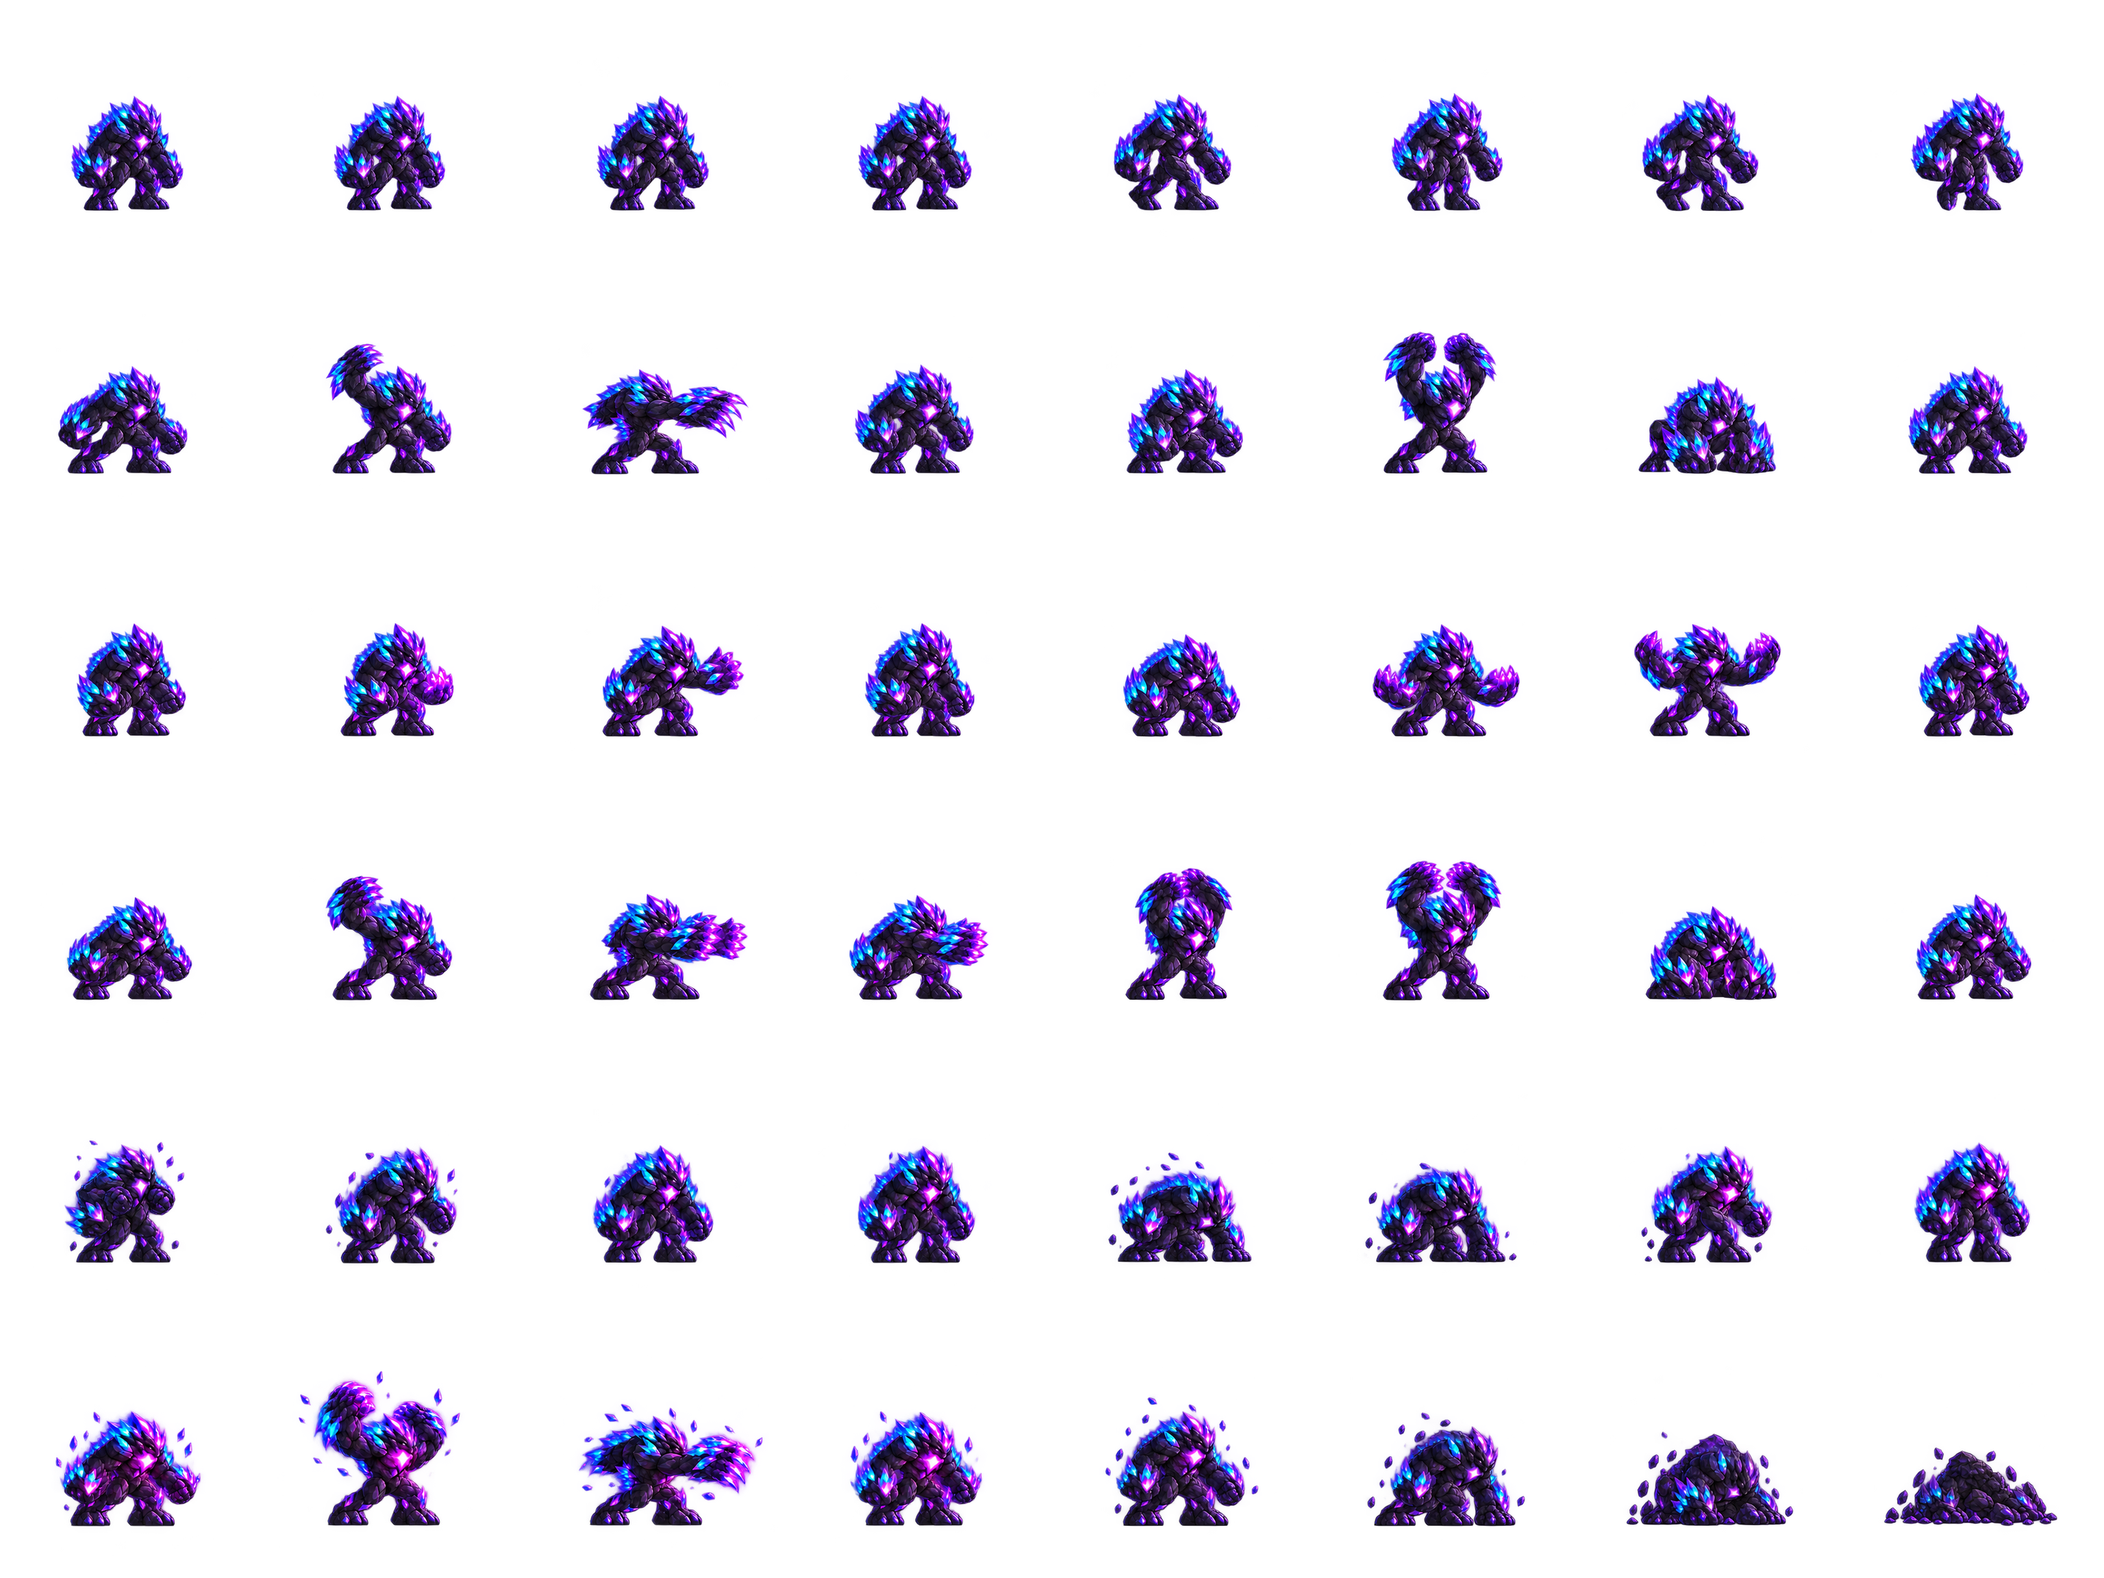
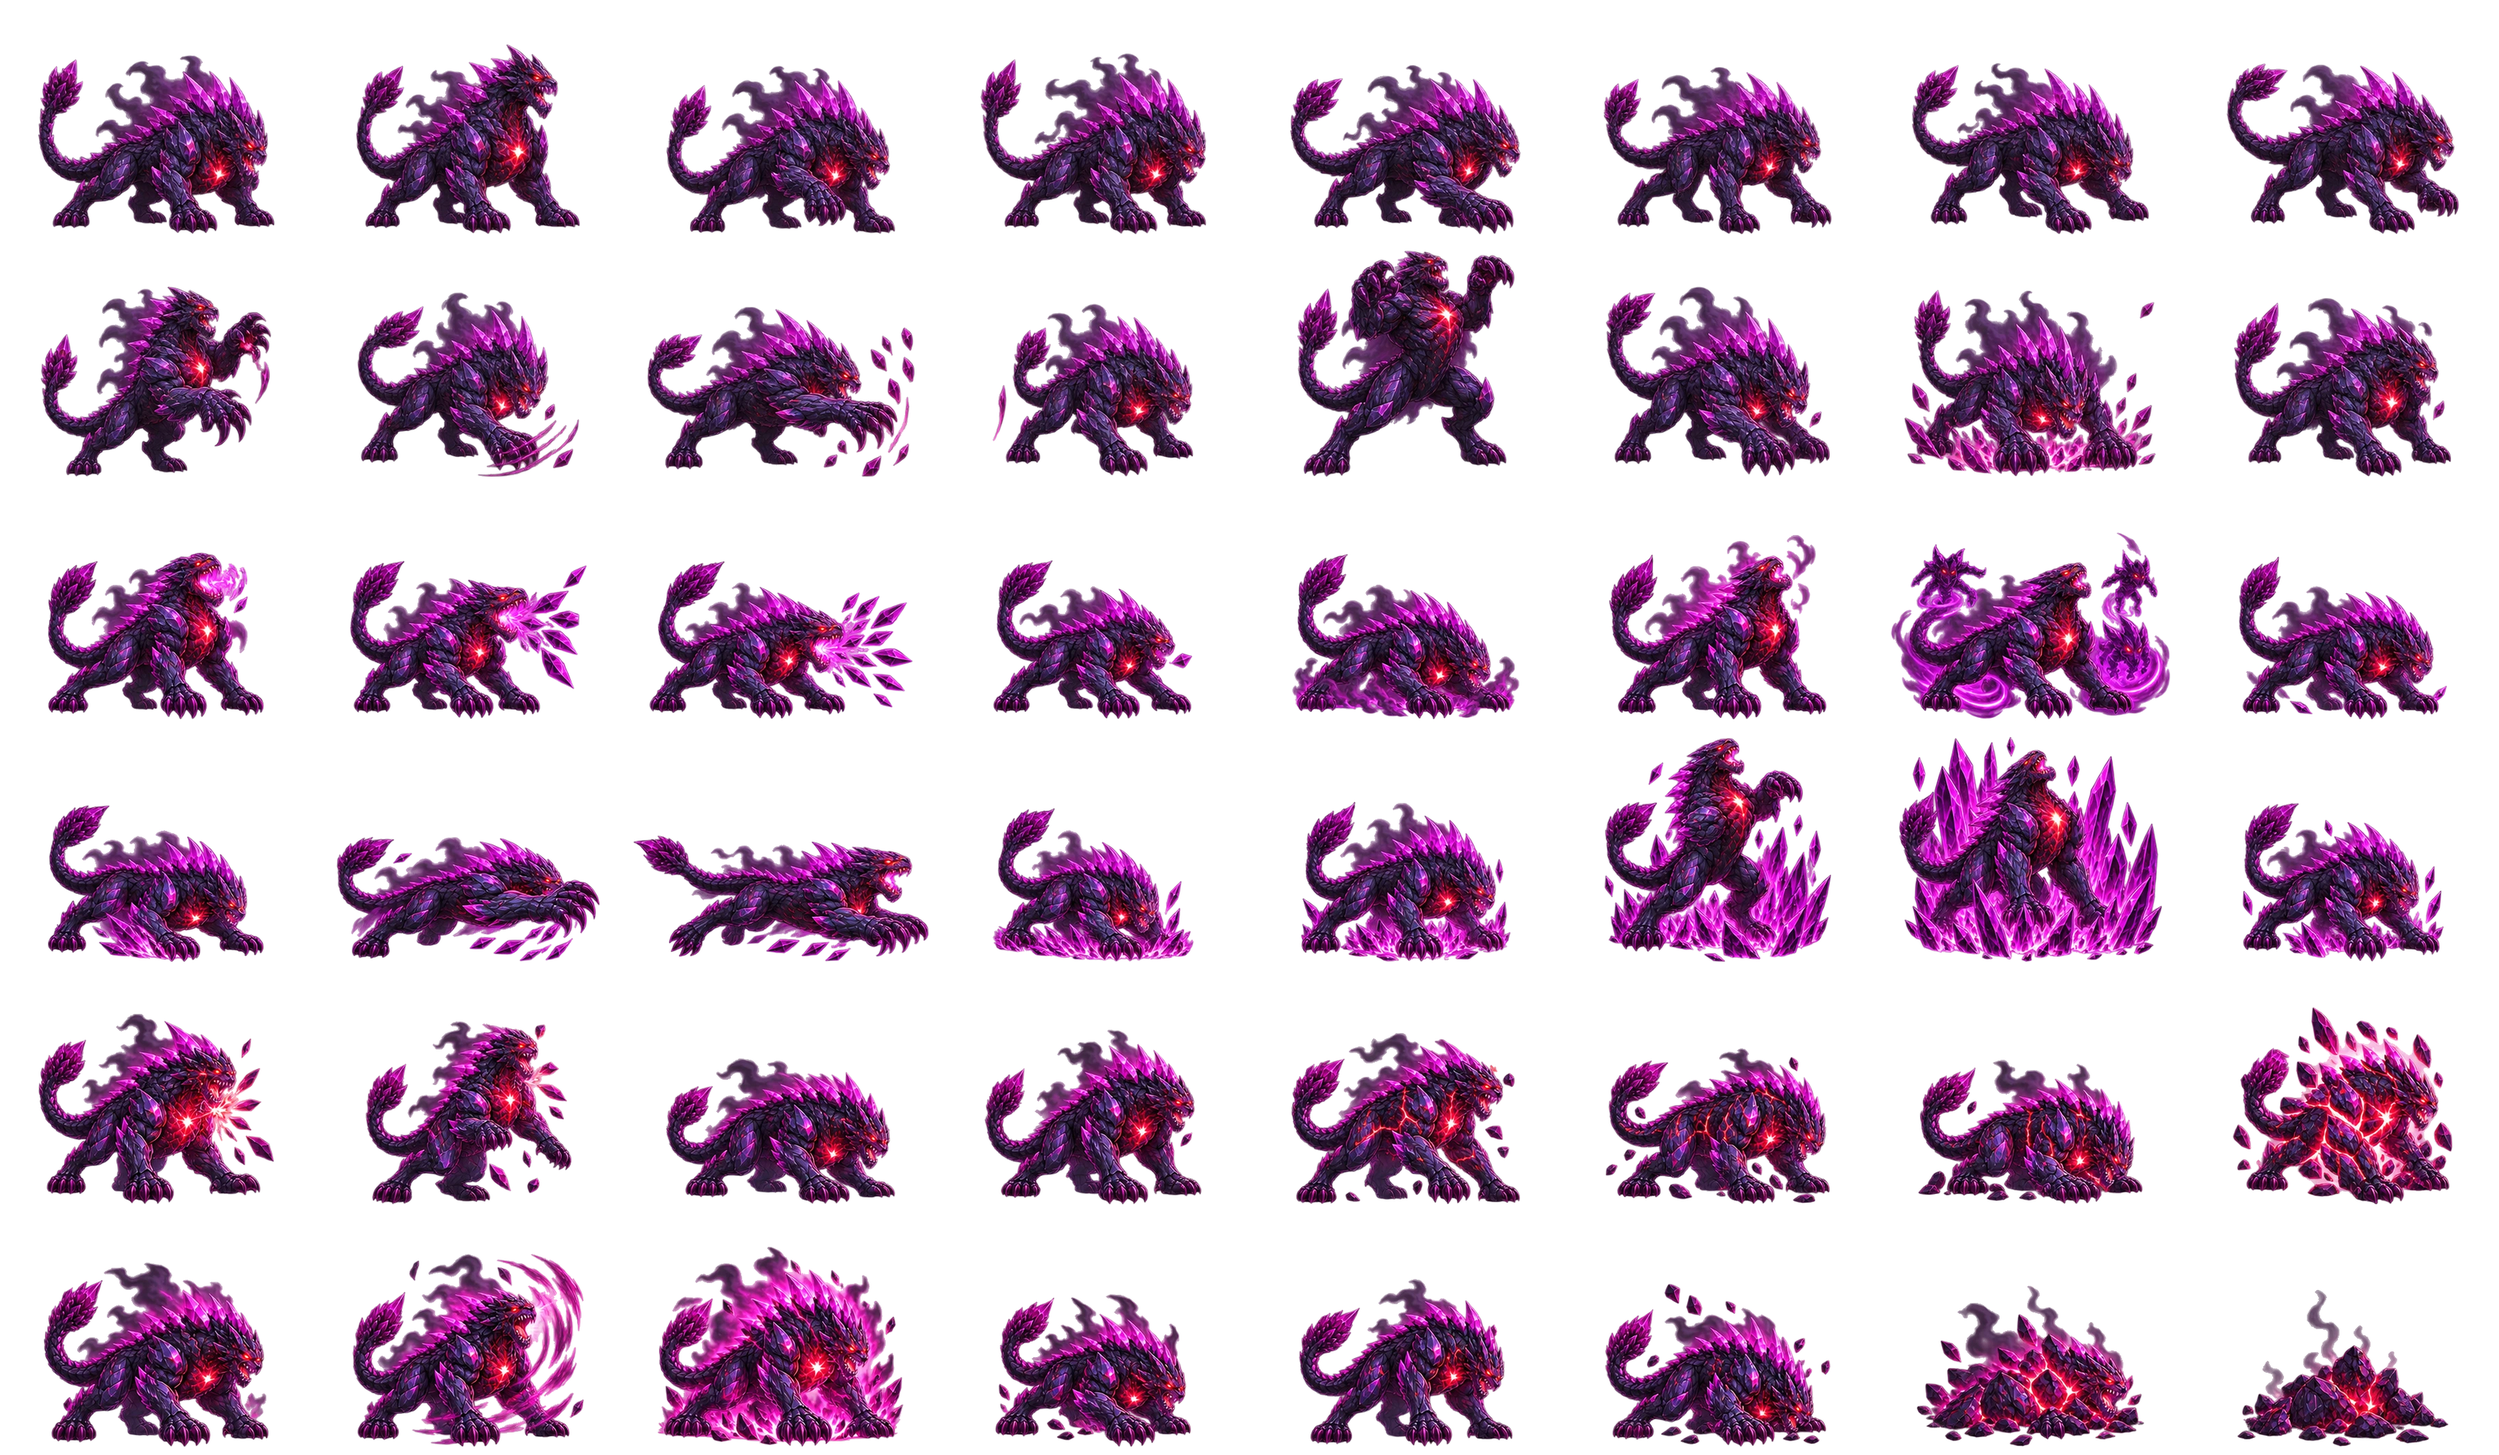
Crystal Beast + Broken Brute sheets in video family (48+32 poses, ownership-extracted); brute gen aliases repointed

diff --git a/src/assets/sprites.gen.ts b/src/assets/sprites.gen.ts
@@ -2651,188 +2651,201 @@ export const SPRITES = {
   },
   "crystalveil": {
     "file": "assets/runtime/crystalveil.webp",
-    "frameWidth": 384,
-    "frameHeight": 384,
+    "frameWidth": 456,
+    "frameHeight": 354,
     "originX": 0.5,
     "originY": 0.7994791666666666,
-    "bodyHeight": 307,
     "anims": {
       "idle": {
         "start": 0,
         "end": 3,
-        "fps": 6,
+        "frameRate": 9,
         "repeat": -1,
-        "h": 168
+        "h": 263
       },
       "walk": {
         "start": 4,
         "end": 7,
-        "fps": 8,
+        "frameRate": 9,
         "repeat": -1,
-        "h": 171
+        "h": 248
       },
       "claw": {
         "start": 8,
         "end": 11,
-        "fps": 8,
+        "frameRate": 9,
         "repeat": 0,
-        "h": 159
+        "h": 261
       },
       "slam": {
         "start": 12,
         "end": 15,
-        "fps": 8,
+        "frameRate": 9,
         "repeat": 0,
-        "h": 155
+        "h": 276
       },
       "shoot": {
         "start": 16,
         "end": 19,
-        "fps": 8,
+        "frameRate": 9,
         "repeat": 0,
-        "h": 165
+        "h": 232
       },
       "summon": {
         "start": 20,
         "end": 23,
-        "fps": 8,
+        "frameRate": 9,
         "repeat": 0,
-        "h": 164
+        "h": 255
       },
       "charge": {
         "start": 24,
         "end": 27,
-        "fps": 8,
+        "frameRate": 9,
         "repeat": 0,
-        "h": 154
+        "h": 204
       },
       "erupt": {
         "start": 28,
         "end": 31,
-        "fps": 8,
+        "frameRate": 9,
         "repeat": 0,
-        "h": 173
+        "h": 280
       },
       "hurt": {
         "start": 32,
         "end": 35,
-        "fps": 12,
+        "frameRate": 9,
         "repeat": 0,
-        "h": 171
+        "h": 261
       },
       "stagger": {
         "start": 36,
         "end": 39,
-        "fps": 6,
+        "frameRate": 9,
         "repeat": 0,
-        "h": 165
+        "h": 239
       },
       "enrage": {
         "start": 40,
         "end": 43,
-        "fps": 8,
-        "repeat": -1,
-        "h": 173
+        "frameRate": 9,
+        "repeat": 0,
+        "h": 276
       },
       "dead": {
         "start": 44,
         "end": 47,
-        "fps": 5,
+        "frameRate": 9,
         "repeat": 0,
-        "h": 152
+        "h": 236
+      },
+      "attack": {
+        "start": 8,
+        "end": 11,
+        "frameRate": 10,
+        "repeat": 0,
+        "h": 261
       }
     }
   },
   "veil_form2": {
     "file": "assets/runtime/veil_form2.webp",
-    "frameWidth": 352,
-    "frameHeight": 352,
+    "frameWidth": 349,
+    "frameHeight": 319,
     "originX": 0.5,
     "originY": 0.977,
     "anims": {
       "idle": {
         "start": 0,
-        "end": 4,
+        "end": 3,
         "frameRate": 6,
         "repeat": -1,
-        "h": 326
+        "h": 252
       },
       "walk": {
-        "start": 5,
-        "end": 9,
+        "start": 4,
+        "end": 7,
         "frameRate": 9,
         "repeat": -1,
-        "h": 326
+        "h": 248
       },
       "claw": {
-        "start": 10,
-        "end": 12,
+        "start": 8,
+        "end": 11,
         "frameRate": 10,
         "repeat": 0,
-        "h": 326
+        "h": 228
       },
       "slam": {
         "start": 12,
-        "end": 14,
+        "end": 15,
         "frameRate": 10,
         "repeat": 0,
-        "h": 326
-      },
-      "shoot": {
-        "start": 10,
-        "end": 11,
-        "frameRate": 10,
-        "repeat": 0,
-        "h": 326
-      },
-      "summon": {
-        "start": 13,
-        "end": 14,
-        "frameRate": 10,
-        "repeat": 0,
-        "h": 326
-      },
-      "charge": {
-        "start": 10,
-        "end": 11,
-        "frameRate": 10,
-        "repeat": 0,
-        "h": 326
-      },
-      "erupt": {
-        "start": 11,
-        "end": 13,
-        "frameRate": 10,
-        "repeat": 0,
-        "h": 326
+        "h": 244
       },
       "hurt": {
-        "start": 15,
-        "end": 15,
-        "frameRate": 8,
-        "repeat": 0,
-        "h": 326
-      },
-      "stagger": {
-        "start": 15,
-        "end": 15,
-        "frameRate": 8,
-        "repeat": 0,
-        "h": 326
-      },
-      "enrage": {
-        "start": 10,
-        "end": 11,
-        "frameRate": 7,
-        "repeat": -1,
-        "h": 326
-      },
-      "dead": {
         "start": 16,
         "end": 19,
+        "frameRate": 8,
+        "repeat": 0,
+        "h": 215
+      },
+      "stagger": {
+        "start": 20,
+        "end": 23,
+        "frameRate": 8,
+        "repeat": 0,
+        "h": 222
+      },
+      "enrage": {
+        "start": 24,
+        "end": 27,
         "frameRate": 7,
         "repeat": 0,
-        "h": 326
+        "h": 250
+      },
+      "dead": {
+        "start": 28,
+        "end": 31,
+        "frameRate": 7,
+        "repeat": 0,
+        "h": 201
+      },
+      "shoot": {
+        "start": 8,
+        "end": 9,
+        "frameRate": 10,
+        "repeat": 0,
+        "h": 228
+      },
+      "summon": {
+        "start": 14,
+        "end": 15,
+        "frameRate": 10,
+        "repeat": 0,
+        "h": 228
+      },
+      "charge": {
+        "start": 8,
+        "end": 9,
+        "frameRate": 10,
+        "repeat": 0,
+        "h": 228
+      },
+      "erupt": {
+        "start": 13,
+        "end": 15,
+        "frameRate": 10,
+        "repeat": 0,
+        "h": 228
+      },
+      "attack": {
+        "start": 8,
+        "end": 11,
+        "frameRate": 10,
+        "repeat": 0,
+        "h": 228
       }
     }
   },
